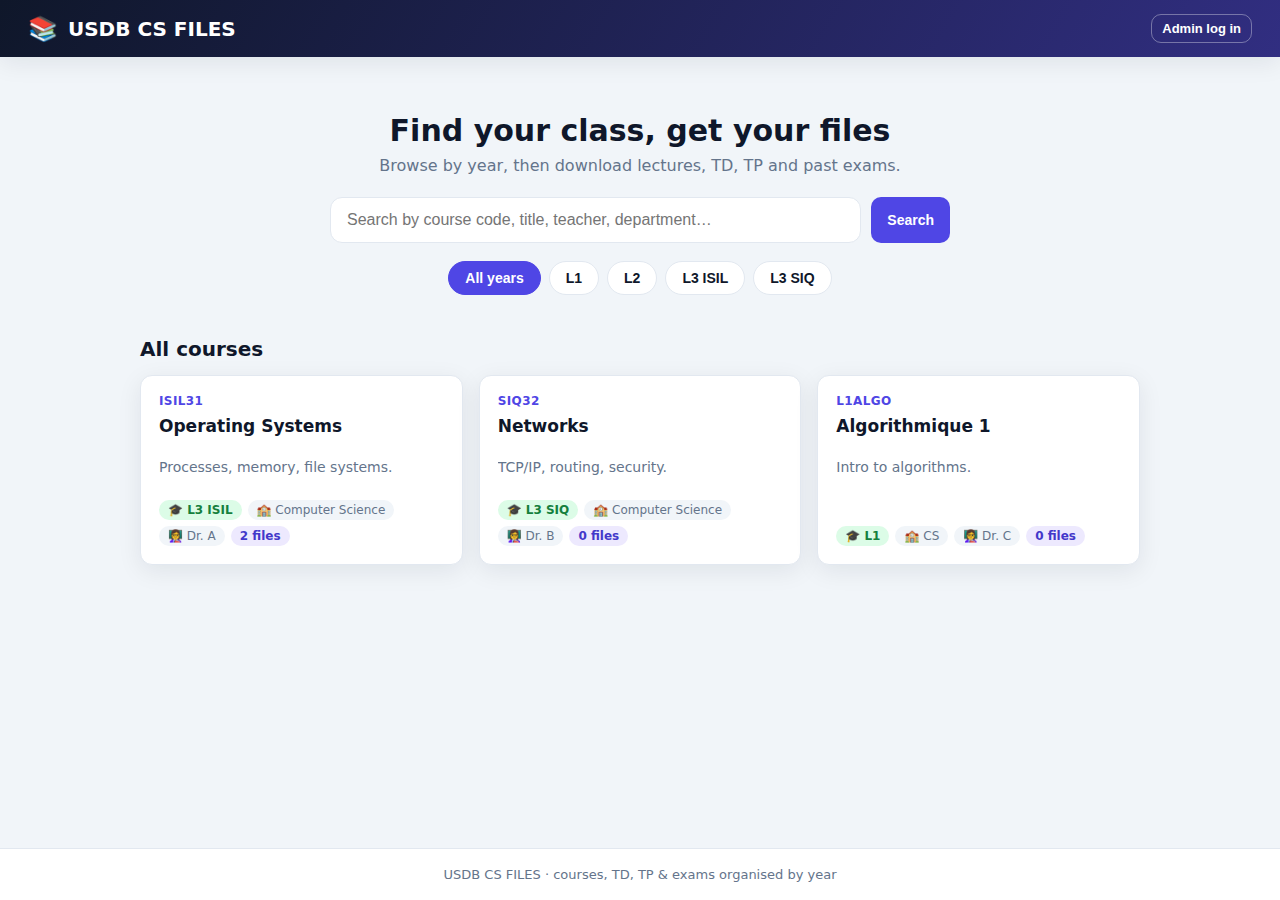
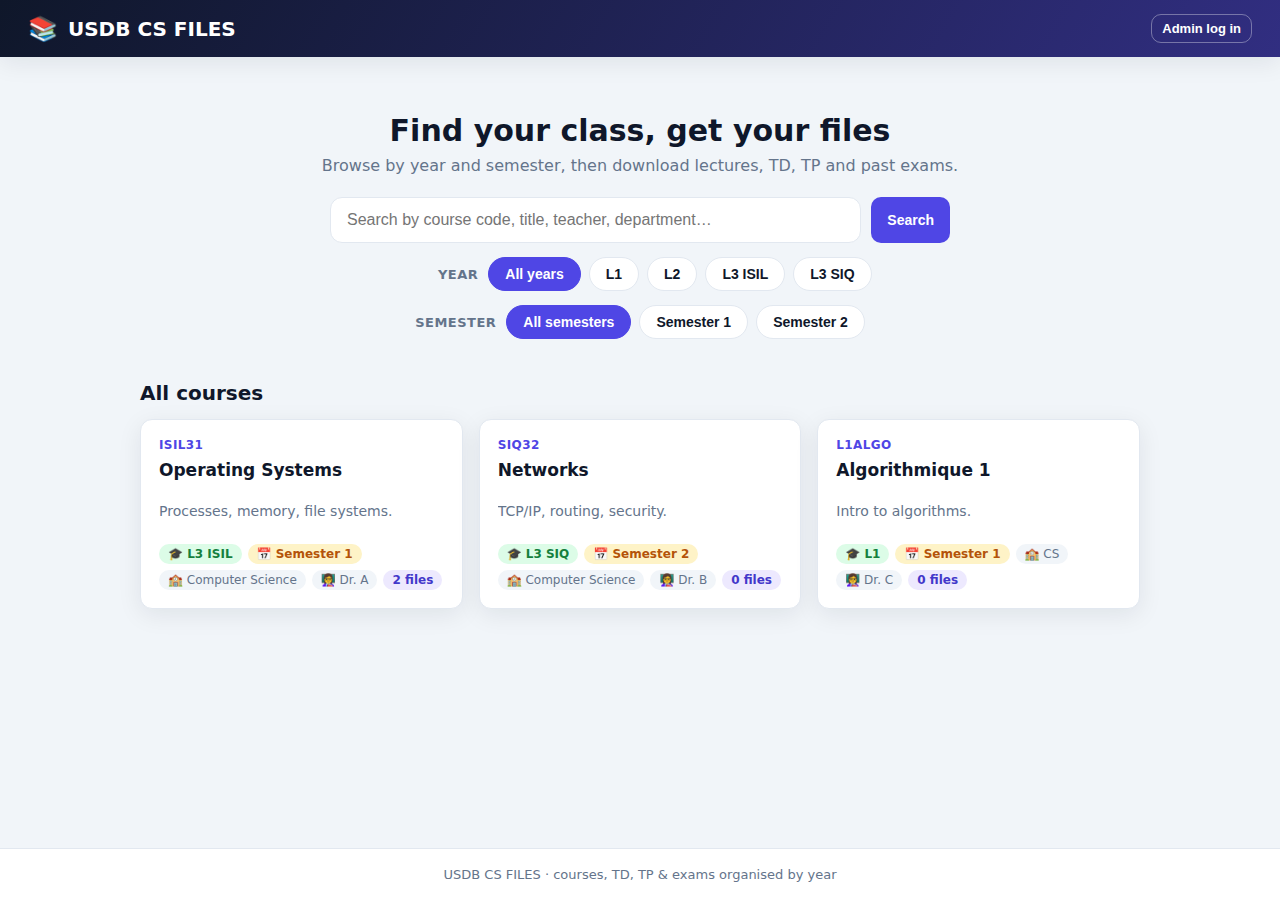
Add Semester 1/2 as a structured field with filtering
- COURSE_SEMESTERS (Semester 1, Semester 2) + /api/semesters endpoint
- Courses can be assigned a semester; create/update normalize the value
- /api/courses supports ?semester= and combines with the year filter
- Home page gains a Semester filter row (alongside Year); semester shown as
  an amber tag on cards
- Admin course form uses a Semester dropdown (preserves any legacy free-text
  value so edits don't drop it)

Claude-Session: https://claude.ai/code/session_0173VNWMUz61Wkum7mt6QUXe

diff --git a/public/app.js b/public/app.js
@@ -5,6 +5,7 @@
 const state = {
   user: null,
   years: ['L1', 'L2', 'L3 ISIL', 'L3 SIQ'], // overwritten from /api/years on boot
+  semesters: ['Semester 1', 'Semester 2'], // overwritten from /api/semesters on boot
 };
 
 const FILE_ICONS = {
@@ -116,25 +117,35 @@ function renderNav() {
 /* ---------- Home / search ---------- */
 
 let currentYear = ''; // active year filter on the home page ('' = all)
+let currentSemester = ''; // active semester filter ('' = all)
 
-async function renderHome() {
-  const chips = ['', ...state.years]
-    .map((y) => {
-      const label = y || 'All years';
-      const active = y === currentYear ? ' active' : '';
-      return `<button class="year-chip${active}" data-year="${escapeHtml(y)}">${escapeHtml(label)}</button>`;
+function chipRow(values, allLabel, active, attr) {
+  return ['', ...values]
+    .map((v) => {
+      const label = v || allLabel;
+      const on = v === active ? ' active' : '';
+      return `<button class="year-chip${on}" data-${attr}="${escapeHtml(v)}">${escapeHtml(label)}</button>`;
     })
     .join('');
+}
 
+async function renderHome() {
   view().innerHTML = `
     <section class="hero">
       <h1>Find your class, get your files</h1>
-      <p>Browse by year, then download lectures, TD, TP and past exams.</p>
+      <p>Browse by year and semester, then download lectures, TD, TP and past exams.</p>
       <div class="search-bar">
         <input id="search" type="search" placeholder="Search by course code, title, teacher, department…" />
         <button class="btn btn-primary" id="searchBtn">Search</button>
       </div>
-      <div class="year-chips" id="yearChips">${chips}</div>
+      <div class="filter-row">
+        <span class="filter-label">Year</span>
+        <div class="year-chips" id="yearChips">${chipRow(state.years, 'All years', currentYear, 'year')}</div>
+      </div>
+      <div class="filter-row">
+        <span class="filter-label">Semester</span>
+        <div class="year-chips" id="semChips">${chipRow(state.semesters, 'All semesters', currentSemester, 'sem')}</div>
+      </div>
     </section>
     <div class="section-head"><h2 id="listTitle">All courses</h2></div>
     <div id="courseList" class="grid"></div>`;
@@ -145,9 +156,11 @@ async function renderHome() {
     const params = new URLSearchParams();
     if (q) params.set('q', q);
     if (currentYear) params.set('year', currentYear);
+    if (currentSemester) params.set('semester', currentSemester);
     const qs = params.toString();
-    const label = currentYear ? `${currentYear} courses` : 'All courses';
-    $('#listTitle').textContent = q ? `Results for “${q}”${currentYear ? ` in ${currentYear}` : ''}` : label;
+    const scope = [currentYear, currentSemester].filter(Boolean).join(' · ');
+    const label = scope ? `${scope} courses` : 'All courses';
+    $('#listTitle').textContent = q ? `Results for “${q}”${scope ? ` in ${scope}` : ''}` : label;
     try {
       const { courses } = await api(`/courses${qs ? `?${qs}` : ''}`);
       renderCourseList(courses);
@@ -160,6 +173,14 @@ async function renderHome() {
     btn.onclick = () => {
       currentYear = btn.dataset.year;
       $('#yearChips').querySelectorAll('.year-chip').forEach((b) => b.classList.remove('active'));
+      btn.classList.add('active');
+      load();
+    };
+  });
+  $('#semChips').querySelectorAll('.year-chip').forEach((btn) => {
+    btn.onclick = () => {
+      currentSemester = btn.dataset.sem;
+      $('#semChips').querySelectorAll('.year-chip').forEach((b) => b.classList.remove('active'));
       btn.classList.add('active');
       load();
     };
@@ -189,6 +210,7 @@ function renderCourseList(courses) {
   for (const c of courses) {
     const meta = [
       c.year ? `<span class="tag year">🎓 ${escapeHtml(c.year)}</span>` : '',
+      c.semester ? `<span class="tag sem">📅 ${escapeHtml(c.semester)}</span>` : '',
       c.department ? `<span class="tag">🏫 ${escapeHtml(c.department)}</span>` : '',
       c.teacher ? `<span class="tag">👩🏫 ${escapeHtml(c.teacher)}</span>` : '',
       `<span class="tag files">${c.fileCount} file${c.fileCount === 1 ? '' : 's'}</span>`,
@@ -456,6 +478,13 @@ async function renderAdminCourse(param) {
     .map((y) => `<option value="${escapeHtml(y)}"${y === (course.year || '') ? ' selected' : ''}>${escapeHtml(y || '— Unassigned —')}</option>`)
     .join('');
 
+  // Include any legacy free-text semester value so editing doesn't drop it.
+  const semValues = [...state.semesters];
+  if (course.semester && !semValues.includes(course.semester)) semValues.unshift(course.semester);
+  const semOptions = ['', ...semValues]
+    .map((s) => `<option value="${escapeHtml(s)}"${s === (course.semester || '') ? ' selected' : ''}>${escapeHtml(s || '— Unassigned —')}</option>`)
+    .join('');
+
   view().innerHTML = `
     <div class="panel wide">
       <h2>${isNew ? 'New course' : 'Edit course'}</h2>
@@ -475,7 +504,7 @@ async function renderAdminCourse(param) {
         <div class="field"><label>Year</label>
           <select id="c-year">${yearOptions}</select></div>
         <div class="field"><label>Semester</label>
-          <input id="c-sem" value="${escapeHtml(course.semester)}" placeholder="Fall 2026" /></div>
+          <select id="c-sem">${semOptions}</select></div>
       </div>
       <div class="field"><label>Teacher</label>
         <input id="c-teacher" value="${escapeHtml(course.teacher)}" placeholder="Dr. Smith" /></div>
@@ -569,6 +598,10 @@ async function boot() {
   try {
     const { years } = await api('/years');
     if (Array.isArray(years) && years.length) state.years = years;
+  } catch { /* keep defaults */ }
+  try {
+    const { semesters } = await api('/semesters');
+    if (Array.isArray(semesters) && semesters.length) state.semesters = semesters;
   } catch { /* keep defaults */ }
   renderNav();
   window.addEventListener('hashchange', router);

diff --git a/src/server.js b/src/server.js
@@ -25,6 +25,10 @@ const FILE_CATEGORIES = ['Course', 'TD', 'TP', 'Exam', 'Other'];
 // Academic years/programs a course can belong to. '' means "unassigned".
 const COURSE_YEARS = ['L1', 'L2', 'L3 ISIL', 'L3 SIQ'];
 const normalizeYear = (y) => (COURSE_YEARS.includes((y || '').trim()) ? (y || '').trim() : '');
+// Semesters a course can belong to. '' means "unassigned".
+const COURSE_SEMESTERS = ['Semester 1', 'Semester 2'];
+const normalizeSemester = (s) =>
+  COURSE_SEMESTERS.includes((s || '').trim()) ? (s || '').trim() : '';
 
 const app = express();
 app.use(express.json());
@@ -103,9 +107,13 @@ app.get('/api/auth/me', (req, res) => {
   res.json({ user: req.user ? publicUser(req.user) : null });
 });
 
-// The list of academic years/programs courses can be filed under.
+// The lists of academic years/programs and semesters courses can be filed under.
 app.get('/api/years', (_req, res) => {
   res.json({ years: COURSE_YEARS });
+});
+
+app.get('/api/semesters', (_req, res) => {
+  res.json({ semesters: COURSE_SEMESTERS });
 });
 
 /* ------------------------------------------------------------------ */
@@ -116,6 +124,7 @@ app.get('/api/years', (_req, res) => {
 app.get('/api/courses', wrap(async (req, res) => {
   const q = (req.query.q || '').trim();
   const year = normalizeYear(req.query.year);
+  const semester = normalizeSemester(req.query.semester);
 
   const where = [];
   const args = [];
@@ -129,6 +138,10 @@ app.get('/api/courses', wrap(async (req, res) => {
   if (year) {
     where.push('year = ?');
     args.push(year);
+  }
+  if (semester) {
+    where.push('semester = ?');
+    args.push(semester);
   }
   const sql =
     'SELECT * FROM courses' +
@@ -171,7 +184,7 @@ app.post('/api/courses', requireAdmin, wrap(async (req, res) => {
       (req.body.department || '').trim(),
       (req.body.level || '').trim(),
       normalizeYear(req.body.year),
-      (req.body.semester || '').trim(),
+      normalizeSemester(req.body.semester),
       (req.body.teacher || '').trim(),
       req.user.id,
     ]
@@ -195,7 +208,7 @@ app.put('/api/courses/:id', requireAdmin, wrap(async (req, res) => {
       (req.body.department ?? course.department).trim(),
       (req.body.level ?? course.level).trim(),
       req.body.year !== undefined ? normalizeYear(req.body.year) : course.year,
-      (req.body.semester ?? course.semester).trim(),
+      req.body.semester !== undefined ? normalizeSemester(req.body.semester) : course.semester,
       (req.body.teacher ?? course.teacher).trim(),
       course.id,
     ]

diff --git a/public/styles.css b/public/styles.css
@@ -176,15 +176,32 @@ body {
 }
 .tag.files { background: #ede9fe; color: var(--primary-dark); font-weight: 600; }
 .tag.year { background: #dcfce7; color: #15803d; font-weight: 600; }
+.tag.sem { background: #fef3c7; color: #b45309; font-weight: 600; }
 
-/* ---------- Year filter chips ---------- */
+/* ---------- Year / semester filter chips ---------- */
+.filter-row {
+  display: flex;
+  align-items: center;
+  justify-content: center;
+  gap: 10px;
+  margin-top: 14px;
+  flex-wrap: wrap;
+}
+.filter-label {
+  font-size: 13px;
+  font-weight: 700;
+  color: var(--muted);
+  text-transform: uppercase;
+  letter-spacing: 0.5px;
+  min-width: 70px;
+  text-align: right;
+}
 .year-chips {
   display: flex;
   flex-wrap: wrap;
   justify-content: center;
   gap: 8px;
-  margin: 18px auto 0;
-  max-width: 640px;
+  margin: 0;
 }
 .year-chip {
   border: 1px solid var(--border);
